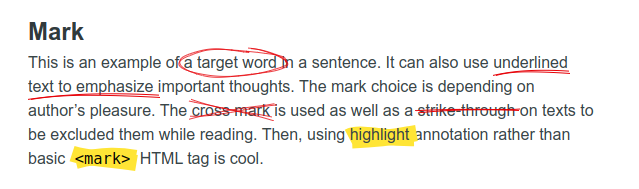
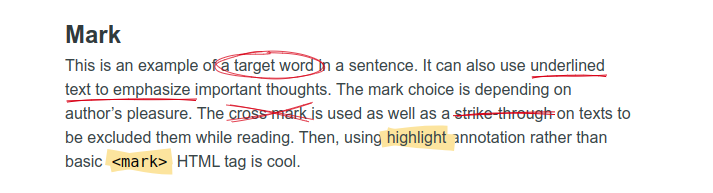
enhanced, sepia theme
- include `<del>` and `<ins>` in styling
- create dark (sepia) mode

Changed region(s): [[0.0297, 0.2381, 0.9515, 0.7937], [0.0297, 0.7672, 0.4163, 0.9259], [0.0297, 0.1058, 0.1784, 0.2381]]

diff --git a/assets/css/dark.css b/assets/css/dark.css
@@ -6,35 +6,35 @@ html {
 }
 
 body {
-    color: #ebebeb;
-    background: #121212;
+    color: #5f4b32;
+    background: #fbf0d9;
     -webkit-font-smoothing: antialiased;
     -moz-osx-font-smoothing: grayscale;
 }
 
 header#banner a {
-    color: #e0e0e0;
+    color: #56442d;
     text-decoration: none;
 }
 
 header#banner nav ul li a {
-    color: #cccccc;
+    color: #56442d;
 }
 
 main#content a {
-    color: #00b1ed;
+    color: #6b8d67;
 }
 
 main#content p {
-    color: #f5f5f5;
+    color: #5f4b32;
 }
 
 main#content hr {
-    background: #5c5c5c;
+    background: #7f6f5b;
 }
 
 main#content #toc h4 {
-    color: #d4d4d4;
+    color: #6f5d47;
 }
 
 main#content ul#posts small {
@@ -42,11 +42,19 @@ main#content ul#posts small {
 }
 
 main#content ul#posts li a:hover {
-    color: #21c7ff;
+    color: #859f81;
 }
 
 main#content header#post-header div {
-    color: #a7a7a7;
+    color: #afa599;
+}
+
+main#content blockquote {
+    border-left: 3px solid #ecd1a8;
+}
+
+mark {
+    color: #5f4b32;
 }
 {{- if not (eq .Site.Params.dark "on") -}}
 }

diff --git a/assets/js/annotate.js b/assets/js/annotate.js
@@ -4,16 +4,16 @@ const annotate = RoughNotation.annotate;
 document.addEventListener("readystatechange", function(event) {
 if (event.target.readyState === "complete") {
 
-var darkred = '#e60006';
+var darkred =  '#d80015';
 var lightblue = '#e0f2fd';
-var yellow = '#ffe536';
+var yellow = '#fce49e';
 var penColor = darkred;
 var highlighterColor = yellow;
 
 var highlightTitle = document.querySelector("h2 a");
 var highlightHighlight = document.querySelectorAll("span.highlight, mark");
-var highlightUnderline = document.querySelectorAll(".underline");
-var highlightStrike = document.querySelectorAll(".strike");
+var highlightUnderline = document.querySelectorAll(".underline, ins");
+var highlightStrike = document.querySelectorAll(".strike, del");
 var highlightCross = document.querySelectorAll(".cross");
 var highlightCircle = document.querySelectorAll(".circle");
 

diff --git a/assets/css/main.css b/assets/css/main.css
@@ -281,10 +281,14 @@ main#content .bottom-image {
     max-width: 250px;
 }
 
-/* the default color yellow for mark is going back on refresh */
 mark {
+    color: #394548;
     background-color: initial;
     background-color: transparent!important;
+}
+
+del, ins {
+    text-decoration: unset!important;
 }
 
 #pagination {

diff --git a/README.md b/README.md
@@ -6,21 +6,25 @@ Etch ~~Notation~~ is a simple, responsive theme for [Hugo](https://gohugo.io) wi
 
 <img src="https://raw.githubusercontent.com/akherlan/etch-notation/master/images/screenshot_mark.png" alt="screenshot" width="545px">
 
+<img src="https://raw.githubusercontent.com/akherlan/etch-notation/master/images/screenshot_notation_sepia.png" alt="screenshot" width="545px">
+
+<img src="https://raw.githubusercontent.com/akherlan/etch-notation/master/images/screenshot_mark_sepia.png" alt="screenshot" width="545px">
+
 ## Features:
 
 * Homepage with list of posts.
 * Support for pages.
 * Responsive design for optimized mobile experience.
 * Syntax highlighting with customizable theme.
-* ~~Dark theme which automatically adjusts based on users' setting ([example](https://github.com/LukasJoswiak/etch/wiki/Dark-mode)).~~
+* ~~Dark~~ Sepia theme which automatically adjusts based on users' setting ([example](https://github.com/LukasJoswiak/etch/wiki/Dark-mode)).
 * No external dependencies, ~~no JavaScript~~, no web fonts.
 * **Using [rough-notation](https://github.com/rough-stuff/rough-notation) JavaScript for writing annotation.**
 * Internationalization friendly: use default English translations or create your own
 * **Support pagination, set from `config.toml`**
 
-Currently, the Etch Notation is still ugly in dark mode. It's hard to me to use similar color palette for notation for both light and dark theme. Plan to use Sepia color scheme instead.
+It's hard to me to use similar color palette for notation in both light and dark theme at once. Thus, Etch Notation is using Sepia color scheme instead of black/gray in dark mode.
 
-The `404.html` page style has stolen from `etch-academic`, another etch-family theme by Álvaro Carril. I configure it for supporting multi-language translations . Etch Academic is available as a theme on [this repository](https://github.com/acarril/etch-academic/).
+The [`404.html`](https://akherlan.github.io/nothere) page style has stolen from `etch-academic`, another etch-family theme by Álvaro Carril. I configure it for supporting multi-language translations . Etch Academic is available as a theme on [this repository](https://github.com/acarril/etch-academic/).
 
 ## Notation
 
@@ -40,9 +44,11 @@ There are 5 types (classes) of annotations available for writing:
 
 All the mark types are using pen style except for `highlight` which is using marker pen style. The annotations support multi-line rendering which means it will be rendered as a separating object while the text is too long on paragraph. However, it is not applied to `circle`.
 
+Basic HTML tags like `<mark>`, `<ins>` (underline), and `<del>` which is generated by tilde `~` in markdown will also rendered as notation style.
+
 ### Usage examples
 
-Annotating text with default `highlight` and HTML tag `<mark>`. I recommend to avoid using mark tag for best result.
+Annotating text with default `highlight` and HTML tag `<mark>`.
 
 ```
 Using {{< annotate "highlight" >}} annotation rather than basic <mark>`<mark>`</mark> HTML tag is cool.
